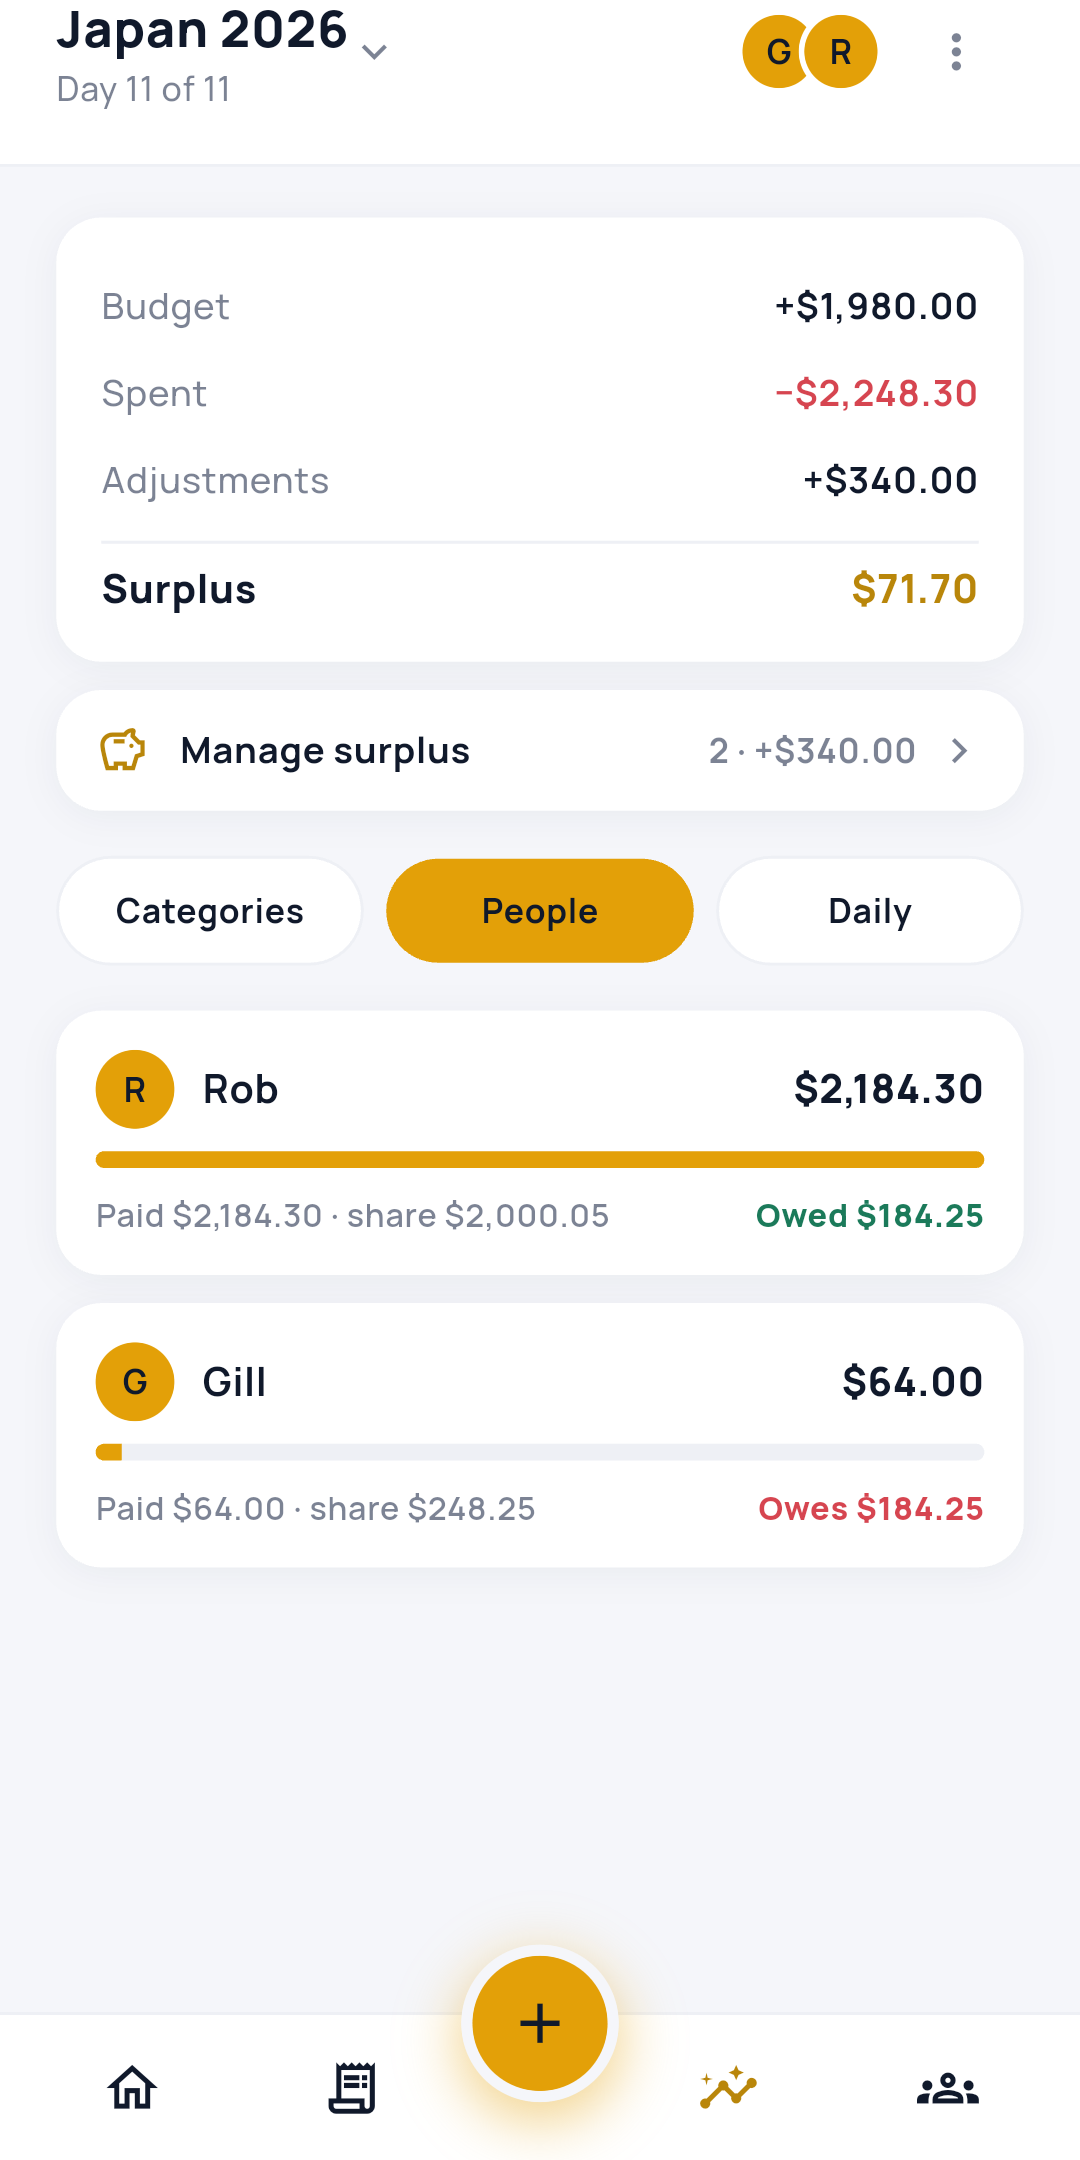
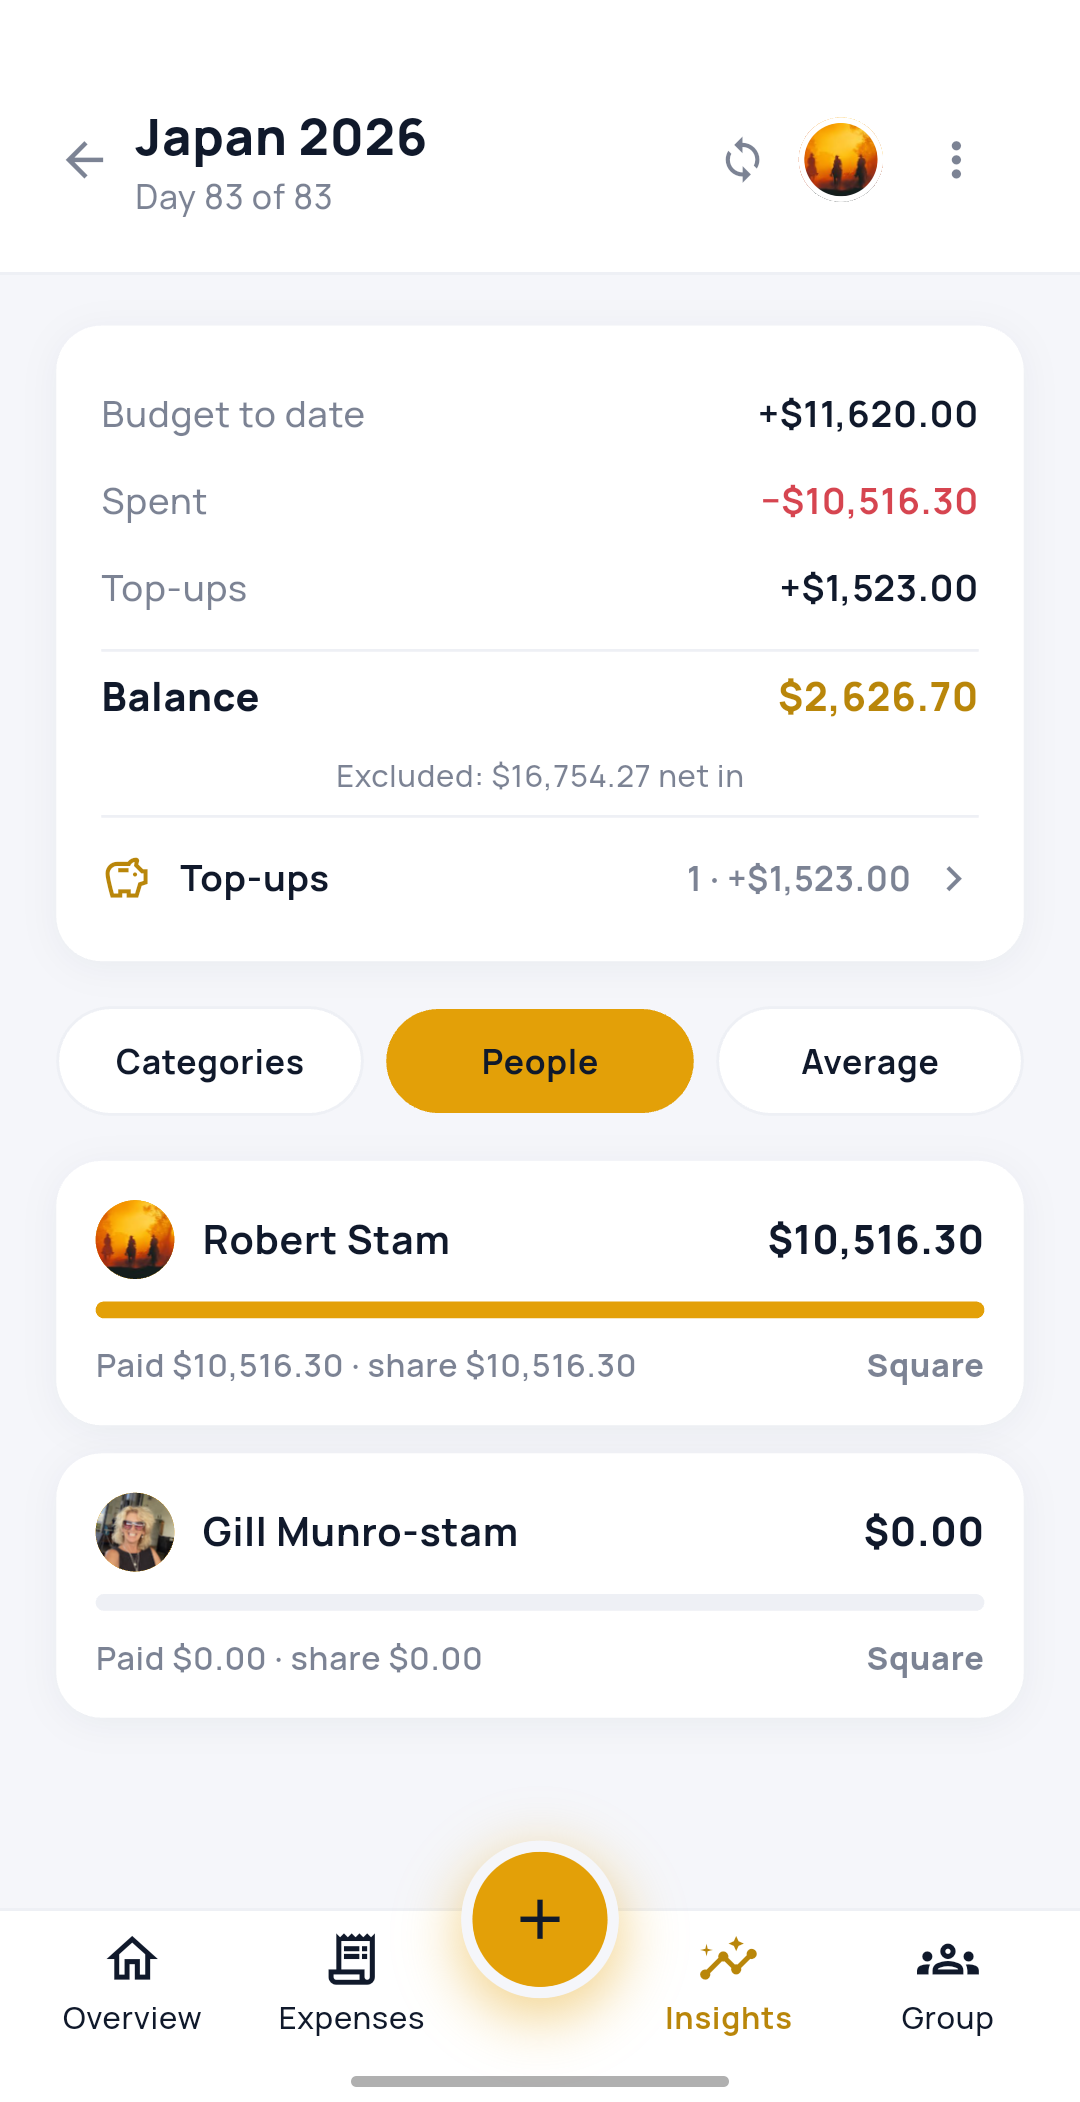
Retake the screenshots on build 40, with Balance and Top-ups wording
The old shots still said Surplus. New ones are from build 40, with the
status bar and test banner cropped off. 09-surplus.png is now
09-topups.png, showing the Top-ups sheet, and the captions and alt text
describe what each screen actually shows (the Group shot reads "Everyone
is square", so its caption no longer promises a payment).

diff --git a/index.html b/index.html
@@ -262,43 +262,43 @@
 
     <div class="rail">
       <figure class="shot">
-        <img src="shots/01-overview.png" alt="The Overview tab: surplus of $71.70, a daily average of $204.39, the total today and the trip total, a trip map row, and recent activity." loading="lazy" width="1080" height="2160">
-        <figcaption><b>The trip at a glance</b><span>Your surplus, daily average and running total &mdash; with your latest expenses right below.</span></figcaption>
+        <img src="shots/01-overview.png" alt="The Overview tab: daily budget $140.00, average per day $126.70, today $0.00; then spent $10,516.30, top-ups $1,523.00 and a balance of $2,626.70, a trip map row, and recent activity." loading="lazy" width="1080" height="2102">
+        <figcaption><b>The trip at a glance</b><span>Your balance, daily average and what you&rsquo;ve spent &mdash; with your latest expenses right below.</span></figcaption>
       </figure>
 
       <figure class="shot">
-        <img src="shots/02-expenses.png" alt="The Expenses tab, listing every expense on the trip." loading="lazy" width="1080" height="2160">
+        <img src="shots/02-expenses.png" alt="The Expenses tab, with a Filter button and every expense listed by day." loading="lazy" width="1080" height="2102">
         <figcaption><b>Every expense, logged</b><span>Filter the list, select a batch of rows, then re-categorise or delete them in one go.</span></figcaption>
       </figure>
 
       <figure class="shot">
-        <img src="shots/03-insights.png" alt="Insights: budget, spent, adjustments and surplus, above a donut chart of spend by category." loading="lazy" width="1080" height="2160">
-        <figcaption><b>Where the money&rsquo;s going</b><span>Budget against spend, broken down by category, by person or by day.</span></figcaption>
+        <img src="shots/03-insights.png" alt="Insights: budget to date, spent, top-ups and balance, above a donut chart of spend by category." loading="lazy" width="1080" height="2102">
+        <figcaption><b>Where the money&rsquo;s going</b><span>Budget against spend, broken down by category, by person or day by day.</span></figcaption>
       </figure>
 
       <figure class="shot">
-        <img src="shots/04-people.png" alt="Insights by person: Rob paid $2,184.30 and is owed $184.25; Gill paid $64.00 and owes $184.25." loading="lazy" width="1080" height="2160">
+        <img src="shots/04-people.png" alt="Insights by person: what each traveller paid, what their share is, and that both are square." loading="lazy" width="1080" height="2102">
         <figcaption><b>Who&rsquo;s paid what</b><span>What each person&rsquo;s put in, next to what they actually owe &mdash; no guessing.</span></figcaption>
       </figure>
 
       <figure class="shot">
-        <img src="shots/05-daily.png" alt="Insights by day, showing what was spent on each day of the trip." loading="lazy" width="1080" height="2160">
+        <img src="shots/05-daily.png" alt="Insights by day: a bar for each day of the trip, in red when it ran over the daily budget." loading="lazy" width="1080" height="2102">
         <figcaption><b>Day by day</b><span>See which days cost the most, and whether you&rsquo;re tracking under budget.</span></figcaption>
       </figure>
 
       <figure class="shot">
-        <img src="shots/07-split.png" alt="The expense form: amount, currency, category, description, location, photo, date, who paid, and who it splits between." loading="lazy" width="1080" height="2160">
+        <img src="shots/07-split.png" alt="The Add expense form: amount, currency, category, description, location, photo, date, who paid, and who it splits between." loading="lazy" width="1080" height="2102">
         <figcaption><b>One expense, in full</b><span>Amount, currency, category, a photo, a pin on the map &mdash; plus who paid and who it splits between.</span></figcaption>
       </figure>
 
       <figure class="shot">
-        <img src="shots/09-surplus.png" alt="The surplus screen, listing manual top-ups made against the trip." loading="lazy" width="1080" height="2160">
-        <figcaption><b>Manage surplus, your way</b><span>Log a refund or a side settlement &mdash; anything that is not an expense &mdash; and watch the surplus update.</span></figcaption>
+        <img src="shots/09-topups.png" alt="The Top-ups sheet, listing one top-up with a button to add another." loading="lazy" width="1080" height="2102">
+        <figcaption><b>Top-ups, your way</b><span>Add money to the trip, or set some aside, by hand. It moves your balance and leaves the daily budget alone.</span></figcaption>
       </figure>
 
       <figure class="shot">
-        <img src="shots/06-group.png" alt="The Group tab: an invite code, the people on the trip, and a suggested payment from Gill to Rob for $184.25." loading="lazy" width="1080" height="2160">
-        <figcaption><b>Settle up, whenever</b><span>See everyone on the trip, and get the shortest list of payments to square everyone up.</span></figcaption>
+        <img src="shots/06-group.png" alt="The Group tab: an Invite button, the people on the trip, and suggested payments, which reads Everyone is square." loading="lazy" width="1080" height="2102">
+        <figcaption><b>Settle up, whenever</b><span>See everyone on the trip, and when someone owes, get the shortest list of payments to square everyone up.</span></figcaption>
       </figure>
     </div>
   </section>
